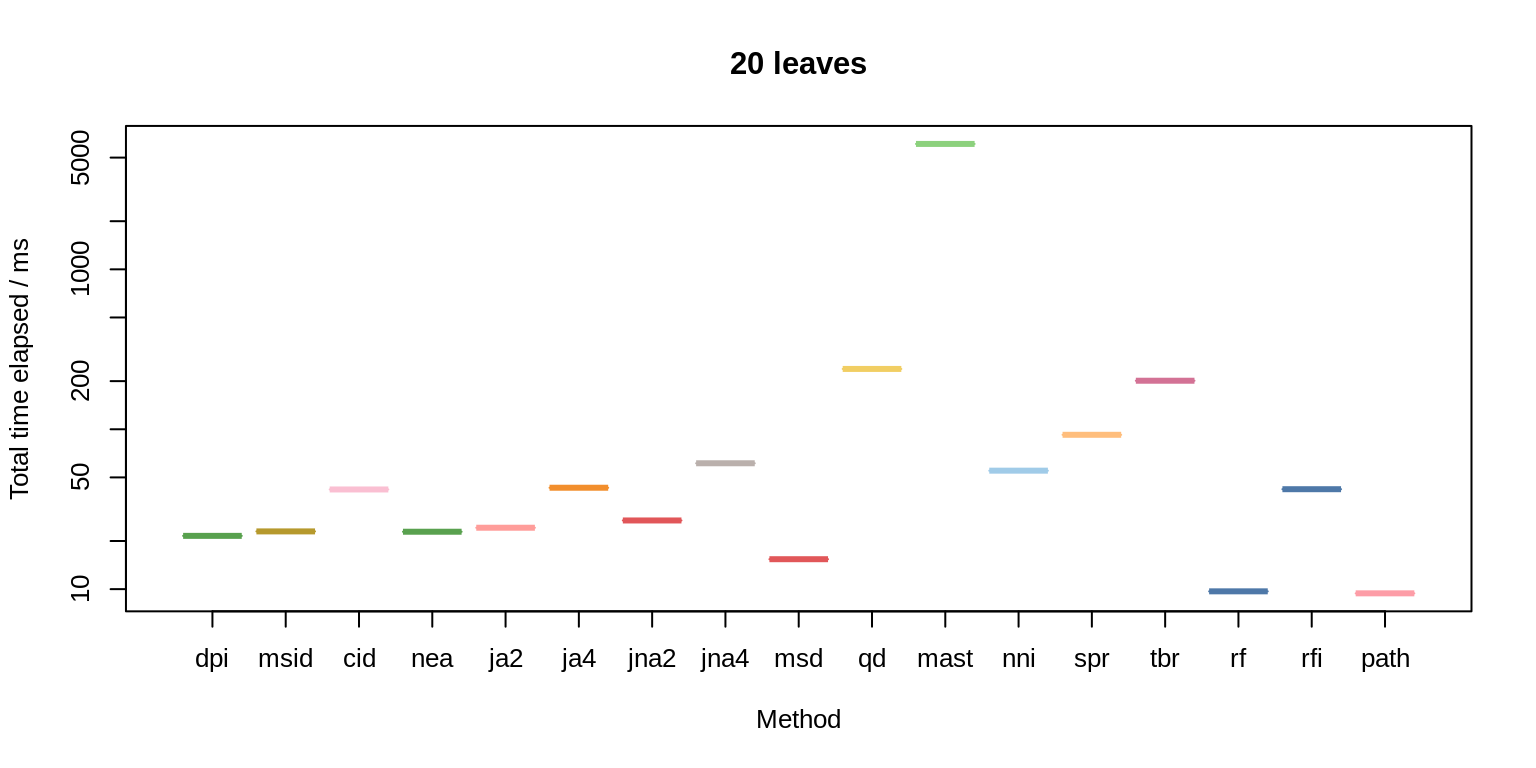
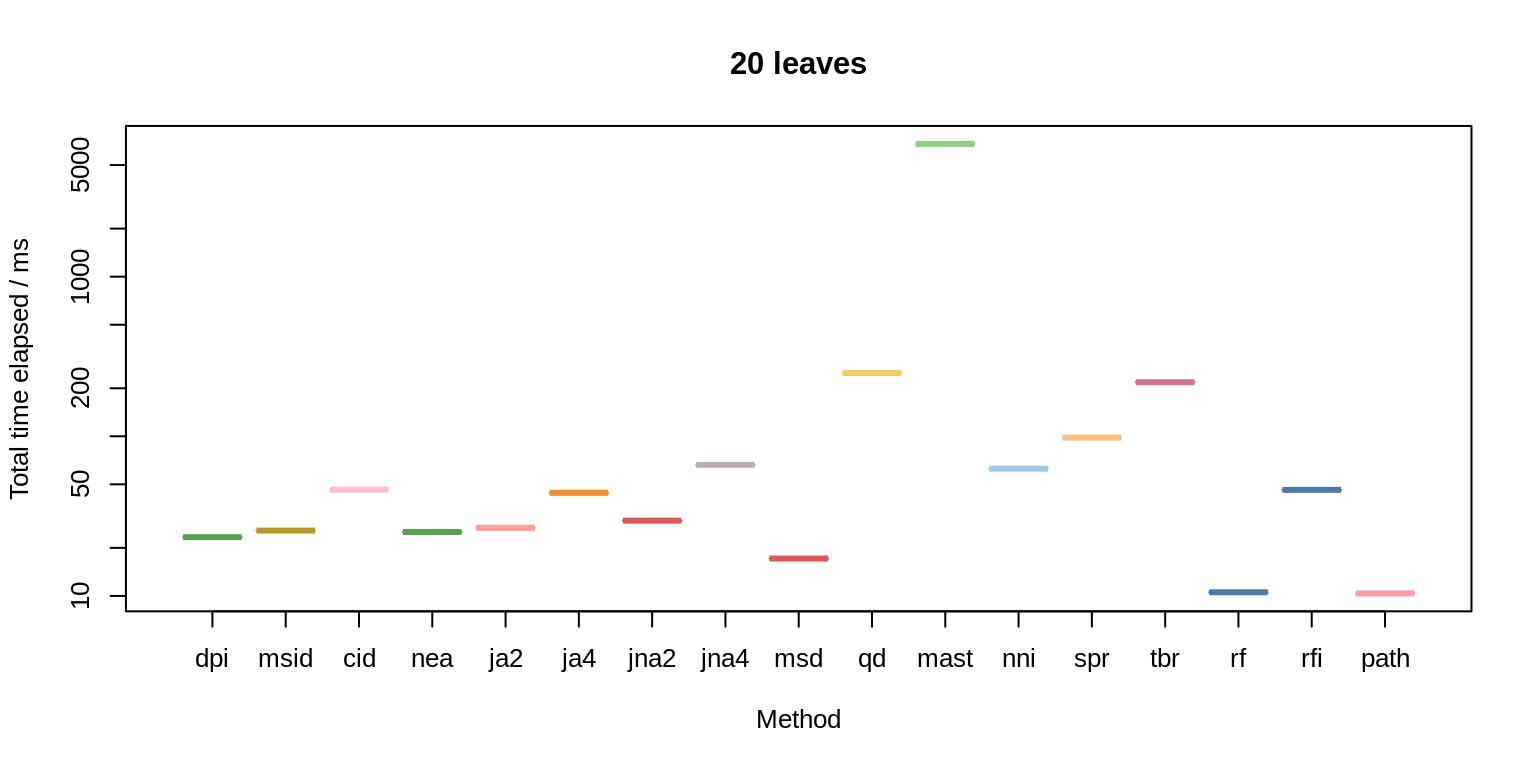
Built site for TreeDistData: 0.0.0.9008@5fc3ded

diff --git a/articles/timing.html b/articles/timing.html
@@ -142,88 +142,88 @@
 <tbody>
 <tr class="odd">
 <td>Path</td>
-<td align="right">9.5</td>
-<td align="right">14</td>
+<td align="right">10</td>
+<td align="right">16</td>
 </tr>
 <tr class="even">
 <td>Robinson-Foulds</td>
-<td align="right">9.8</td>
-<td align="right">12</td>
+<td align="right">11</td>
+<td align="right">13</td>
 </tr>
 <tr class="odd">
 <td>Match. Split Dist.</td>
-<td align="right">16.0</td>
-<td align="right">46</td>
+<td align="right">17</td>
+<td align="right">49</td>
 </tr>
 <tr class="even">
 <td>Diff. Phylog. Info</td>
-<td align="right">22.0</td>
-<td align="right">82</td>
+<td align="right">24</td>
+<td align="right">88</td>
 </tr>
 <tr class="odd">
 <td>Nye et al.</td>
-<td align="right">23.0</td>
-<td align="right">130</td>
+<td align="right">25</td>
+<td align="right">140</td>
 </tr>
 <tr class="even">
 <td>Match. Split Info Dist</td>
-<td align="right">23.0</td>
-<td align="right">150</td>
+<td align="right">26</td>
+<td align="right">160</td>
 </tr>
 <tr class="odd">
 <td>JRF (k=2, arboreal)</td>
-<td align="right">24.0</td>
+<td align="right">27</td>
 <td align="right">120</td>
 </tr>
 <tr class="even">
 <td>JRF (k=2, non-arb.)</td>
-<td align="right">27.0</td>
-<td align="right">170</td>
-</tr>
-<tr class="odd">
-<td>Clust. Info. Dist.</td>
-<td align="right">42.0</td>
-<td align="right">260</td>
-</tr>
-<tr class="even">
-<td>Robinson-Foulds Info</td>
-<td align="right">43.0</td>
-<td align="right">130</td>
+<td align="right">30</td>
+<td align="right">180</td>
 </tr>
 <tr class="odd">
 <td>JRF (k=4, arboreal)</td>
-<td align="right">44.0</td>
-<td align="right">540</td>
+<td align="right">45</td>
+<td align="right">570</td>
+</tr>
+<tr class="even">
+<td>Robinson-Foulds Info</td>
+<td align="right">47</td>
+<td align="right">140</td>
+</tr>
+<tr class="odd">
+<td>Clust. Info. Dist.</td>
+<td align="right">47</td>
+<td align="right">270</td>
 </tr>
 <tr class="even">
 <td>NNI (approx.)</td>
-<td align="right">56.0</td>
-<td align="right">82</td>
+<td align="right">63</td>
+<td align="right">87</td>
 </tr>
 <tr class="odd">
 <td>JRF (k=4, non-arb.)</td>
-<td align="right">62.0</td>
-<td align="right">880</td>
+<td align="right">67</td>
+<td align="right">910</td>
 </tr>
 <tr class="even">
 <td>SPR (approx.)</td>
-<td align="right">93.0</td>
-<td align="right">790</td>
+<td align="right">99</td>
+<td align="right">820</td>
 </tr>
 <tr class="odd">
 <td>TBR (approx.)</td>
-<td align="right">200.0</td>
-<td align="right">360</td>
+<td align="right">220</td>
+<td align="right">380</td>
 </tr>
 <tr class="even">
 <td>Quartet</td>
-<td align="right">240.0</td>
-<td align="right">420</td>
+<td align="right">250</td>
+<td align="right">450</td>
 </tr>
 <tr class="odd">
 <td>MAST size</td>
-<td align="right">6100.0</td>
-<td align="right">25000</td>
+<td align="right">6900</td>
+<td align="right">27000</td>
 </tr>
 </tbody>
 </table>
